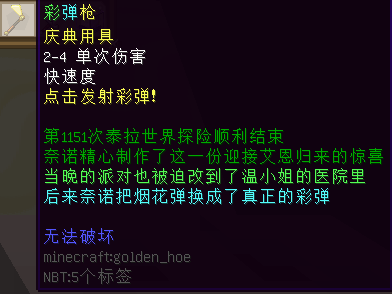
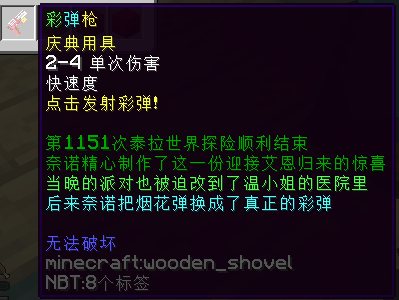
UPDATE Economic, PTT, Items: Add cases when the System's Balance (can) drops to below zero; Update several items (incl. custom texture for 彩弹枪)

Changed region(s): [[0.0, 0.0, 1.0, 1.0], [0.0, 0.9796, 0.0306, 1.0]]

diff --git a/nyaa/economic.md b/nyaa/economic.md
@@ -10,12 +10,14 @@
 1. 喵窝世界实行**自由市场经济**。物品价格由市场（玩家）决定。
 1. 系统会通过命令、或借助管理员提供交易、传送等服务，其中一部分收费、或加收税费，收费标准基本保持稳定。  
 如管理组需要调整税率或修改系统服务价格，将会提前通知。
-1. 世界内流通货币单位为**「节操」（简称“节”）。**每位玩家在首次进入服务器时将**赠送 450 节操**用于购买基础物品。
+1. 世界内流通货币单位为**「节操」（简称“节”）**。
+  * 每位玩家在首次进入服务器时将**赠送 450 节操**用于购买基础物品。
 1. 世界内设置一个公共账户，称**「系统余额」（又称「系统 balance」）**。
 1. 一切交易过程中的“征收”“加收税费”，以及系统服务收费（[玩家提供的](#玩家提供的系统服务)除外），均流入「系统余额」。
 部分种类的[在线奖励](#在线奖励)，分发时从「系统余额」划扣。
 1. 喵窝世界中允许多种交易模式。但有一点是共同的：**商品一经售出，原则上不接受退换（插件不支持）。具体退换货条例请以商家说明/协商结果为准。没有明确说明的，请以不支持退换为准。**
 1. 玩家被允许**负债**（即现金额为负数）。负债状态下，玩家仍可使用收费命令，但部分需征税的经济服务将会受限（如木牌交易）。
+  * 「系统余额」同样被允许“负债”。这种情况多发生于通过红包道具、回购等服务，从「系统余额」支取过度。此时，系统将启动应急机制，以尽快回笼节操（例如自动拍卖、止付部分签到奖励）。
 
 以下将允许的交易模式以及对应的要求、费用等列出。
 
@@ -71,6 +73,10 @@
 
 - **基于征购和拍卖的特性，所有交易均为最终交易，不可变更。**
 - 每次拍卖成交后，成交额的 10% 将被征收。
+
+
+- 当「系统余额」陷入负值，系统将开始自动拍卖随机物品，直至回笼足够节操为止。
+  + **注意：**这些物品不一定适用于当前版本。
 
 ### 一对一账单交易
 
@@ -165,7 +171,7 @@
 
 
 ### 高级装备回收
-通过在“无尽地狱”铸造/摇号获得的任意武器或辅助道具，如不满意，可联系*奈诺 `Aqua_nano`* 回收。  
+通过在“无尽地狱”铸造/摇号获得的任意武器或辅助道具，如不满意，可联系*奈诺 `Aqua_nano`* 或管理员回收。  
 目前，可回收 T3 及以上等级的装备：
 
 - <span style="color:#060;">绿色稀有度（T3）</span> —— 10000 节操
@@ -173,7 +179,9 @@
 - <span style="color:#960;">金色稀有度（T5）</span> —— 25000 节操
 - <span style="color:#600;">红色稀有度（T5+）</span> —— 60000 节操
 
-回收价格可能依系统余额动态调整。最新动态请见 [BBS帖子](https://bbs.nyaa.cat/d/1561-infinite-infernal)。
+回收价格可能依「系统余额」动态调整。最新动态请见 [BBS帖子](https://bbs.nyaa.cat/d/1561-infinite-infernal)。
+
+此服务受理时从「系统余额」直接拨款。
 
 
 ### 玩家提供的系统服务
@@ -202,6 +210,8 @@
 - **week**——每周签到（根据系统 balance 浮动）
 - **month**——每月签到（根据系统 balance 浮动）
 - **activator**——每月活跃值贡献者奖励（固定值）
+
+!> 如「系统余额」过低，相关奖励项将不能保证足额发放；陷入负值时，即停止支付，直至恢复到正值。
 
 ## 公共工程
 

diff --git a/space/items/support.md b/space/items/support.md
@@ -56,7 +56,7 @@
 ![item](../../assets/images/items/support/UnityStone.png)
 - 【外形】海洋之心
 - 【兑换需求】信标x64，绿宝石块x64
-- 不限使用次数
+- 无使用限制
 - **【作用】**持于主手或副手栏时，按住潜行键，可持续获得「漂浮」效果；该效果允许你在当前高度的空中行走（但不会上升或下落）。
 
 #### 冒险者罗盘
@@ -98,7 +98,7 @@
 - 【兑换需求】铁块x32，红石块x64
 - 【最大能量值】64
 - 【是否可充能】是，需煤炭
-- **【作用】**左键使用，向前瞬间加速至 50 m/s，一秒内不受重力影响。可用于起飞及飞行时加速，或者赶路。
+- **【作用】**左键使用，向前瞬间加速至 50 m/s。可用于起飞及飞行时加速，或者赶路。
 
 #### 姜汁汽水
 ![item](../../assets/images/items/support/姜汁汽水.png)
@@ -135,7 +135,8 @@
 
 #### 彩弹枪
 ![item](../../assets/images/items/support/彩弹枪.png)
-- 【外形】金锄头
+- 【外形】定制材质
+  + 如关闭服务器资源包，将显示为木铲。
 - 【兑换需求】黄绿色带釉陶瓦x64，红色带釉陶瓦x64
 - 不限使用次数
 - **【作用】**
@@ -151,4 +152,4 @@
 - 【最大能量值】32
 - 【是否可充能】是，需海晶砂粒
 - **【作用】**雨天时，右键使用，使天空放晴。
-  + 注意：如在雷雨天使用，雷雨天气**总会**在若干分钟后取代晴天。参考 `/weather clear` 命令的效果。
+  + 注意：如在雷雨天使用，雷雨天气**总会**在若干分钟后取代晴天。参考 `/weather clear` 命令使用后的后续效果。

diff --git a/space/items/festival.md b/space/items/festival.md
@@ -8,8 +8,9 @@
 
 * 【外形】书
 * 【物品类型】RPGItem
+* **一次性道具**
 * 【作用】
-  * 将物品放在主手上，右键即可获得 200 至 1000 不等的节操。
+  * 主手持有，按右键使用，即获得 200 至 1000 不等的节操。所获节操从「系统余额」直接划扣。
 * 【用途】
   * 用于在各种活动和节日向玩家派发节操。
   * 某些场合下可能会被管理组成员当作彩票大批量出售，达到喜闻乐见的效果。
@@ -20,7 +21,8 @@
 
 * 【外形】书
 * 【物品类型】RPGItem
+* **一次性道具**
 * 【作用】
-  * 将物品放在主手上，右键即可获得 2000 至 10000 不等的节操。
+  * 主手持有，按右键使用，即获得 2000 至 10000 不等的节操。同样从「系统余额」划扣。
 * 【用途】
   * 与喵爪红包一致。

diff --git a/space/items/legacy.md b/space/items/legacy.md
@@ -1,6 +1,6 @@
 # 旧版装备道具
 
-目前在喵窝世界尚具备价值的、早于 Minecraft 1.15 更新的物品。  
+目前在喵窝世界尚具备价值的、在 *Minecraft* 1.13.2 及以前更新的物品。  
 本页面中的物品暂时按（拼音）首字母排序。
 
 ### 风神十字弓
